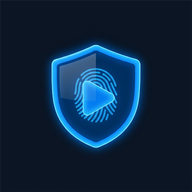
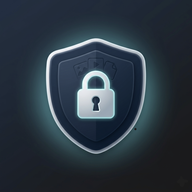
add new feature

diff --git a/lib/splash_screen/widgets/liquid_logo.dart b/lib/splash_screen/widgets/liquid_logo.dart
@@ -22,7 +22,6 @@ class LiquidLogo extends StatelessWidget {
             width: 140,
             height: 140,
             decoration: BoxDecoration(
-              gradient: LiquidColors.primaryGradient,
               borderRadius: BorderRadius.circular(35),
               boxShadow: [
                 BoxShadow(
@@ -39,40 +38,29 @@ class LiquidLogo extends StatelessWidget {
                 ),
               ],
             ),
-            child: Stack(
-              children: [
-                Positioned.fill(
-                  child: Container(
+            child: ClipRRect(
+              borderRadius: BorderRadius.circular(35),
+              child: Image.asset(
+                'assets/splash/logo.png',
+                width: 140,
+                height: 140,
+                fit: BoxFit.cover,
+                errorBuilder: (context, error, stackTrace) {
+                  return Container(
                     decoration: BoxDecoration(
+                      gradient: LiquidColors.primaryGradient,
                       borderRadius: BorderRadius.circular(35),
-                      gradient: RadialGradient(
-                        colors: [
-                          Colors.white.withValues(alpha: 0.4 * value),
-                          Colors.transparent,
-                        ],
-                        radius: 0.7,
+                    ),
+                    child: const Center(
+                      child: Icon(
+                        Icons.lock_outline,
+                        size: 70,
+                        color: Colors.white,
                       ),
                     ),
-                  ),
-                ),
-                Center(
-                  child: TweenAnimationBuilder(
-                    tween: Tween<double>(begin: 0, end: 1),
-                    duration: const Duration(milliseconds: 1000),
-                    curve: Curves.elasticOut,
-                    builder: (context, double iconValue, child) {
-                      return Transform.scale(
-                        scale: iconValue,
-                        child: const Icon(
-                          Icons.lock_outline,
-                          size: 70,
-                          color: Colors.white,
-                        ),
-                      );
-                    },
-                  ),
-                ),
-              ],
+                  );
+                },
+              ),
             ),
           ),
         );

diff --git a/lib/security_settings/privacy_policy_screen.dart b/lib/security_settings/privacy_policy_screen.dart
@@ -101,7 +101,7 @@ class PrivacyPolicyScreen extends StatelessWidget {
                   iconColor: LiquidColors.success,
                   title: 'What we collect',
                   body:
-                      'Nothing. Secure Player has no server, no analytics SDK, '
+                      'Nothing. SecuroBox has no server, no analytics SDK, '
                       'no advertising identifiers, and no telemetry. The app '
                       'works fully offline.',
                 ),
@@ -144,7 +144,7 @@ class PrivacyPolicyScreen extends StatelessWidget {
                   iconColor: LiquidColors.accentPink,
                   title: 'Third-party services',
                   body:
-                      'None. Secure Player does not integrate any analytics, '
+                      'None. SecuroBox does not integrate any analytics, '
                       'ads, crash reporting, or cloud sync provider. The app '
                       'connects to the network only when you explicitly '
                       'request it (for example, when downloading a URL you '
@@ -155,7 +155,7 @@ class PrivacyPolicyScreen extends StatelessWidget {
                   iconColor: LiquidColors.success,
                   title: 'Children\'s privacy',
                   body:
-                      'Secure Player is not designed for or directed at '
+                      'SecuroBox is not designed for or directed at '
                       'children under 13. Because the app collects no data, '
                       'we cannot knowingly identify or contact any user.',
                 ),

diff --git a/lib/security_settings/security_setting.dart b/lib/security_settings/security_setting.dart
@@ -1829,7 +1829,7 @@ class _SecuritySettingsScreenState extends State<SecuritySettingsScreen>
                   const SizedBox(width: 8),
                   Expanded(
                     child: Text(
-                      'A determined snooper can still find Secure Player in Settings → Apps. This is a deterrent, not perfect hiding.',
+                      'A determined snooper can still find SecuroBox in Settings → Apps. This is a deterrent, not perfect hiding.',
                       style: TextStyle(
                         fontSize: 11,
                         color: Colors.grey.shade300,
@@ -2878,7 +2878,7 @@ class _SecuritySettingsScreenState extends State<SecuritySettingsScreen>
           const SizedBox(height: 16),
           _aboutTile(
             icon: Icons.star_rounded,
-            label: 'Rate Secure Player',
+            label: 'Rate SecuroBox',
             sublabel: 'Leave a review on Google Play',
             color: LiquidColors.warning,
             onTap: () async {
@@ -2928,7 +2928,7 @@ class _SecuritySettingsScreenState extends State<SecuritySettingsScreen>
                   : '...';
               return Center(
                 child: Text(
-                  'Secure Player v$v',
+                  'SecuroBox v$v',
                   style: TextStyle(color: Colors.grey.shade500, fontSize: 12),
                 ),
               );

diff --git a/lib/onboarding_screen/onboarding_screen.dart b/lib/onboarding_screen/onboarding_screen.dart
@@ -197,7 +197,7 @@ class _OnboardingScreenState extends State<OnboardingScreen>
   Future<void> _enableBiometric() async {
     try {
       final ok = await _localAuth.authenticate(
-        localizedReason: 'Enable biometric unlock for Secure Player',
+        localizedReason: 'Enable biometric unlock for SecuroBox',
         biometricOnly: true,
       );
       if (ok) {
@@ -277,7 +277,7 @@ class _OnboardingScreenState extends State<OnboardingScreen>
             ),
             const SizedBox(height: 36),
             const Text(
-              'Welcome to Secure Player',
+              'Welcome to SecuroBox',
               textAlign: TextAlign.center,
               style: TextStyle(fontSize: 28, fontWeight: FontWeight.w800, color: Colors.white, letterSpacing: 0.3),
             ),

diff --git a/lib/app_lock_screen/app_lock_screen.dart b/lib/app_lock_screen/app_lock_screen.dart
@@ -375,7 +375,7 @@ class _AppLockScreenState extends State<AppLockScreen>
                   mainAxisSize: MainAxisSize.min,
                   children: [
                     const LiquidLockHeader(
-                      title: 'Secure Player',
+                      title: 'SecuroBox',
                       subtitle: 'Enter your PIN to continue',
                     ),
 
@@ -630,7 +630,7 @@ class _CustomAuthDialogState extends State<_CustomAuthDialog>
     });
     try {
       final ok = await widget.localAuth.authenticate(
-        localizedReason: 'Unlock Secure Player',
+        localizedReason: 'Unlock SecuroBox',
         biometricOnly: true,
         sensitiveTransaction: true,
       );

diff --git a/lib/splash_screen/widgets/liquid_title.dart b/lib/splash_screen/widgets/liquid_title.dart
@@ -27,7 +27,7 @@ class LiquidTitle extends StatelessWidget {
               ).createShader(bounds);
             },
             child: Text(
-              'SECURE',
+              'SECURO',
               style: TextStyle(
                 fontSize: 36,
                 fontWeight: FontWeight.w900,
@@ -49,7 +49,7 @@ class LiquidTitle extends StatelessWidget {
               return LiquidColors.primaryGradient.createShader(bounds);
             },
             child: Text(
-              'PLAYER',
+              'BOX',
               style: TextStyle(
                 fontSize: 36,
                 fontWeight: FontWeight.w900,

diff --git a/lib/security_settings/recovery_setup_screen.dart b/lib/security_settings/recovery_setup_screen.dart
@@ -51,7 +51,7 @@ class _RecoverySetupScreenState extends State<RecoverySetupScreen> {
   Future<void> _openEmailClient() async {
     HapticFeedback.lightImpact();
     final email = _emailController.text.trim();
-    const subject = 'Secure Player — Recovery Code';
+    const subject = 'SecuroBox — Recovery Code';
     final body = _code;
 
     final uri = Uri(

diff --git a/lib/app.dart b/lib/app.dart
@@ -7,7 +7,7 @@ class MyApp extends StatelessWidget {
   Widget build(BuildContext context) {
     return MaterialApp(
       debugShowCheckedModeBanner: false,
-      title: 'Secure Player',
+      title: 'SecuroBox',
       theme: ThemeData(
         primarySwatch: Colors.blue,
         scaffoldBackgroundColor: const Color(0xFF0F0F23),

diff --git a/lib/onboarding_screen/forgot_pin_screen.dart b/lib/onboarding_screen/forgot_pin_screen.dart
@@ -105,7 +105,7 @@ class _ForgotPinScreenState extends State<ForgotPinScreen> {
     });
 
     final code = RecoveryService.instance.generateCode();
-    const subject = 'Secure Player — PIN Reset Code';
+    const subject = 'SecuroBox — PIN Reset Code';
 
     final uri = Uri(
       scheme: 'mailto',

diff --git a/lib/utils/disguise_service.dart b/lib/utils/disguise_service.dart
@@ -22,7 +22,7 @@ class DisguiseService {
   static const List<DisguiseOption> options = [
     DisguiseOption(
       key: 'default',
-      label: 'Secure Player',
+      label: 'SecuroBox',
       assetIcon: 'assets/disguise/default.png',
     ),
     DisguiseOption(

diff --git a/play-store/privacy-policy.md b/play-store/privacy-policy.md
@@ -1,11 +1,11 @@
-# Privacy Policy — Secure Player
+# Privacy Policy — SecuroBox
 
 **Effective date:** 2026-04-30
 **Contact:** hello@farhatullah.com
 
 ## Summary
 
-Secure Player is a 100% offline application. We do not collect, store, transmit, sell, or share any personal data. This privacy policy exists because the Google Play Store requires every app to publish one, even when the app collects nothing.
+SecuroBox is a 100% offline application. We do not collect, store, transmit, sell, or share any personal data. This privacy policy exists because the Google Play Store requires every app to publish one, even when the app collects nothing.
 
 ## What data the app handles
 

diff --git a/CONTRIBUTING.md b/CONTRIBUTING.md
@@ -1,4 +1,4 @@
-# Contributing to Secure Player
+# Contributing to SecuroBox
 
 Thank you for your interest in contributing.
 
@@ -71,4 +71,4 @@ By submitting a contribution, you agree that your contribution is licensed under
 - Security reports → `hello@farhatullah.com`
 - General questions → GitHub Discussions (when enabled) or the same email
 
-Thanks for helping make Secure Player more secure for everyone.
+Thanks for helping make SecuroBox more secure for everyone.
